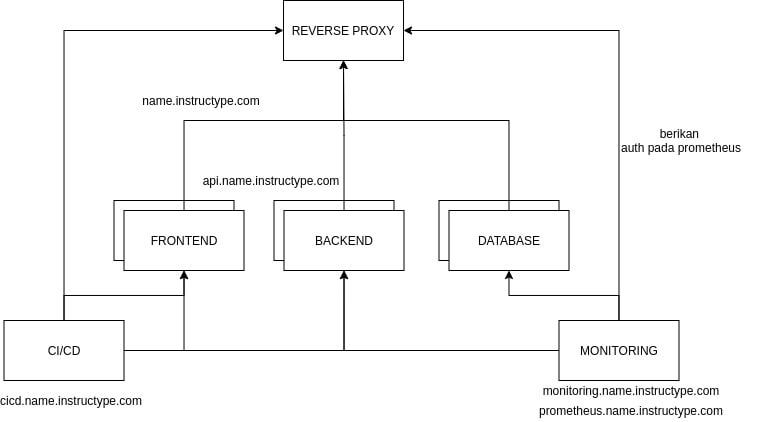
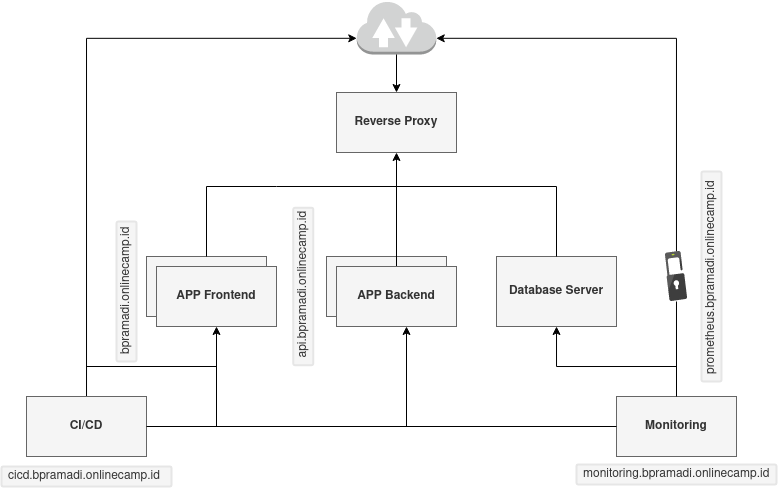
update

diff --git a/Dumbways_Final_task/README.md b/Dumbways_Final_task/README.md
@@ -1,22 +1,28 @@
 # Final Task
 
-Melakukan pembuatan infrastucture sesuai tugas
+Melakukan pembuatan infrastucture
 
- ![gambar](assets/infra.png)
-
+<p align="center">
+  <img src="assets/infra.png" />
+</p>
 # Kebutuhan
 
 Adapun rincian kebutuhan diantaranya :
 
-- OS : Linux Ubuntu
+- OS : Linux Ubuntu 20.04 LTS
+- Docker
 - Databases : PostgreSQL
 - VMs : Multipass
+- CI/CD : Jenkins
+- Webserver : Nginx
+- Monitoring : Prometheus, Node exporter, Grafana
+- Tools : Ansible
 
 # Penyelesaian
 
 - [Repository](repository.md)
 - [Server](server.md)
-- [user](suser.md)
+- [user](user.md)
 - [SSH](ssh.md)
 - [Database](database.md)
 - [Web Server](webserver.md)

diff --git a/README.md b/README.md
@@ -49,3 +49,10 @@
 - Create Docker Images
 - Install Application
 - [Baca lebih lanjut](Dumbways_Week_3/README.md)
+
+## Minggu ke 4
+
+- Setup Monitoring Server
+- Connect multiple server to prometheus
+- Setup Server with Ansible
+- [Baca lebih lanjut](Dumbways_Week_4/README.md)
